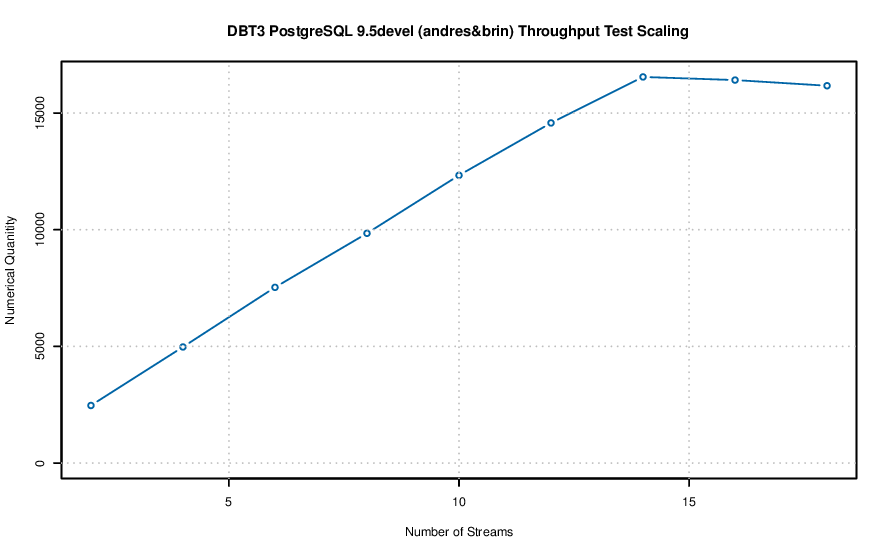
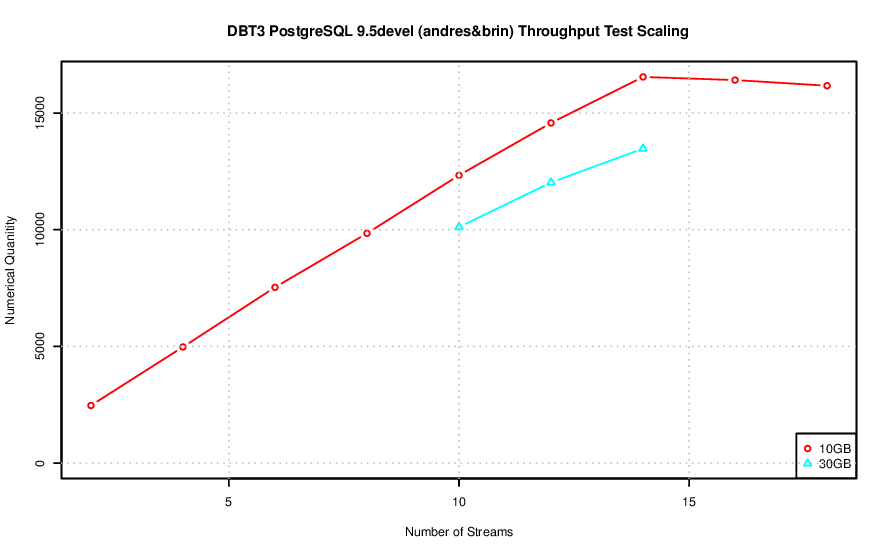
Add more brin charts

diff --git a/brin/index.html b/brin/index.html
@@ -32,5 +32,10 @@
 		<li><a href="http://mw2q.github.io/bsc-pghead-andres-brin-10-streamsX-30g/">BRIN 10 streams</a></li>
 
 </ul>
+
+<h2>Increasing Scale Factor</h2>
+<img src="compare-power-10gb-vs-30gb.png" width="100%" />
+<img src="compare-throughput-10gb-vs-30gb.png" width="100%" />
+
 </body>
 </html>
